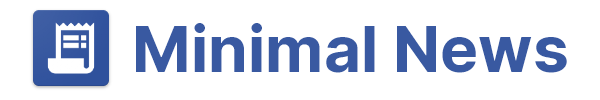
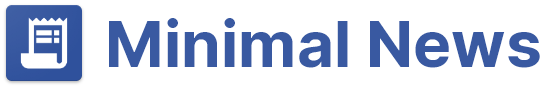
remove country select

diff --git a/news.js b/news.js
@@ -5,20 +5,14 @@ const newsSize = process.env.PAGE_SIZE;
 const apiKey = process.env.NEWS_API;
 const country = process.env.NEWS_COUNTRY;
 
-function news_get(countryISO) {
-  const country =
-    countryISO && countryISO.length > 0 ? countryISO : process.env.NEWS_COUNTRY;
+function news_get() { 
 
   var requestOptions = {
     method: "GET",
     redirect: "follow",
-  };
-
-  console.log(
-    "🍏 ",
-    `https://newsapi.org/v2/top-headlines?country=${country}&apiKey=${apiKey}&pageSize=${newsSize}`
-  );
-  return fetch(url, requestOptions)
+  }; 
+   
+   fetch(`https://newsapi.org/v2/top-headlines?country=${country}&apiKey=${apiKey}&pageSize=${newsSize}`, requestOptions)
     .then((response) => response.json())
     .then((json) => {
       let pr;

diff --git a/app.js b/app.js
@@ -39,17 +39,13 @@ app.use("/feedback", (req, res, next) => {
   res.sendFile(path.join(__dirname, "/" + "views" + "/" + "feedback.html"));
 });
 
-
 //Serve Index Page
 app.use("/:county?", (req, res, next) => {
-  news.news_get(req.params.county).then(() => {
-    var article = fs.readFileSync("res/newsArticles.txt", "utf8");
-    res.render("index.ejs", {
-      data: article,
-    });
-  }).catch(err=>{
-    console.log(err)
-  })
+  news.news_get(req.params.county);
+  var article = fs.readFileSync("res/newsArticles.txt", "utf8");
+  res.render("index.ejs", {
+    data: article,
+  });
 });
 
 var j = schedule.scheduleJob("1 1 * * * *", function () {

diff --git a/public/css/main.css b/public/css/main.css
@@ -41,11 +41,12 @@ body {
   text-align: center;
   max-width: 880px;
   margin: 0 auto;
-  padding: 10px 0;
+  padding: 6px 0;
 }
 
 .navbar .logo {
   height: 50px;
+  padding-right: 6px;
 }
 
 .navbar .icon {
@@ -58,14 +59,6 @@ body {
   align-items: center;
 }
 
-.countries select {
-  padding: 10px 5px;
-  background: var(--cardAccent);
-  color: var(--textHeadlines);
-  border-radius: 100px;
-  font-weight: bold;
-  border: 1px solid var(--bgSubcards);
-}
 
 #app-name {
   font-size: 2rem;
@@ -92,7 +85,6 @@ li.navbar {
   display: -webkit-flex;
   display: -ms-flexbox;
   display: flex;
-  padding: 6px 8px;
 }
 
 a.navbar {
